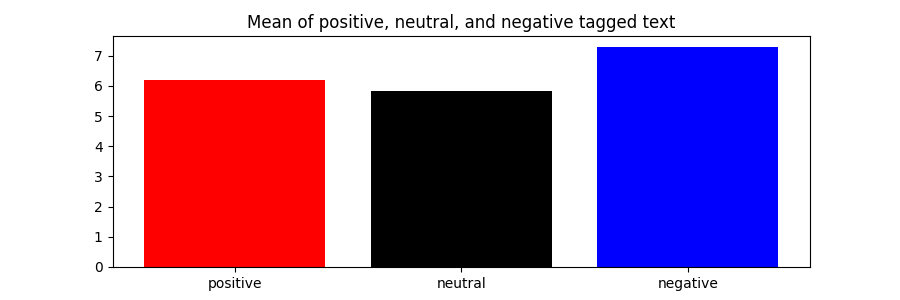
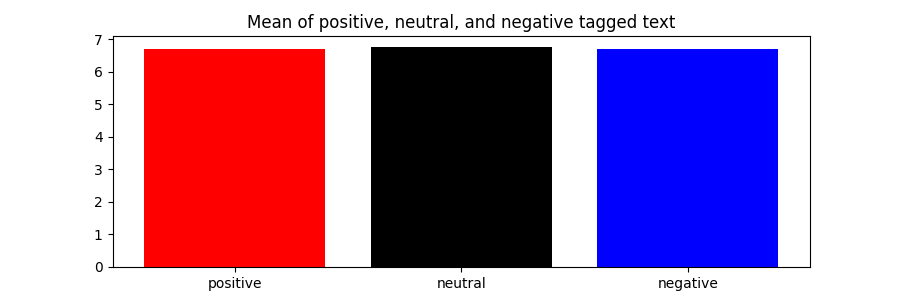
updated with option for comments

diff --git a/plotting.py b/plotting.py
@@ -158,11 +158,12 @@ if __name__ == "__main__":
 
     polarity = df['Sentiment'].to_numpy()
     engagement = df['Score'].to_numpy()
+    comments = df['Num_Comments'].to_numpy()
     # print(polarity)
     # print(engagement)
     # polarity = [0.5, 1, 0, 0.5, -1, -0.25]
     # engagement = [1, -5, 1.5, 2, 4, 5]
-    sort_pos_neu_neg(polarity, engagement)
+    sort_pos_neu_neg(polarity, comments)
 
     print(len(positive_pol))
     print(len(positive_eng))
@@ -182,10 +183,12 @@ if __name__ == "__main__":
     print("Neutral")
     print(get_co_var(neutral_pol, neutral_eng))
     print()
-    scatter_plot(polarity, engagement)
-    bar_plot_means(polarity, engagement)
-    scatter_plot_abs(polarity, engagement)
-    print(spearmanr(polarity, engagement))
+    # scatter_plot(polarity, engagement)
+    # bar_plot_means(polarity, engagement)
+    # scatter_plot_abs(polarity, engagement)
+    # print(spearmanr(polarity, engagement))
 
-    print(get_co_var(get_abs(polarity),engagement))
-    print(spearmanr(get_abs(polarity),engagement))
+    print(get_co_var(get_abs(polarity),comments))
+    print(spearmanr(get_abs(polarity),comments))
+    #scatter_plot_abs(polarity, comments)
+    bar_plot_means(polarity, comments)
